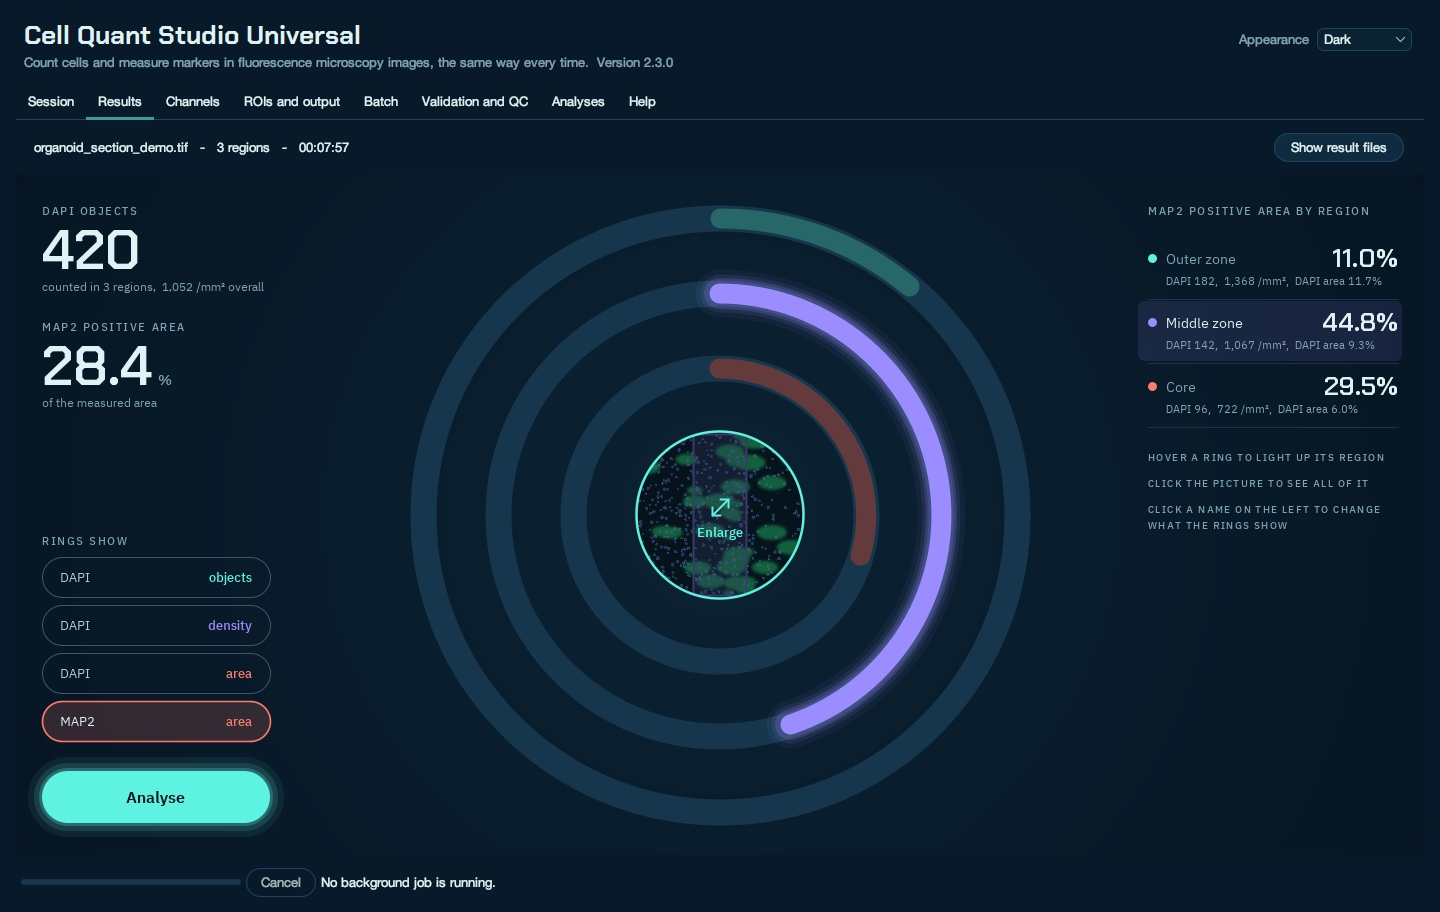
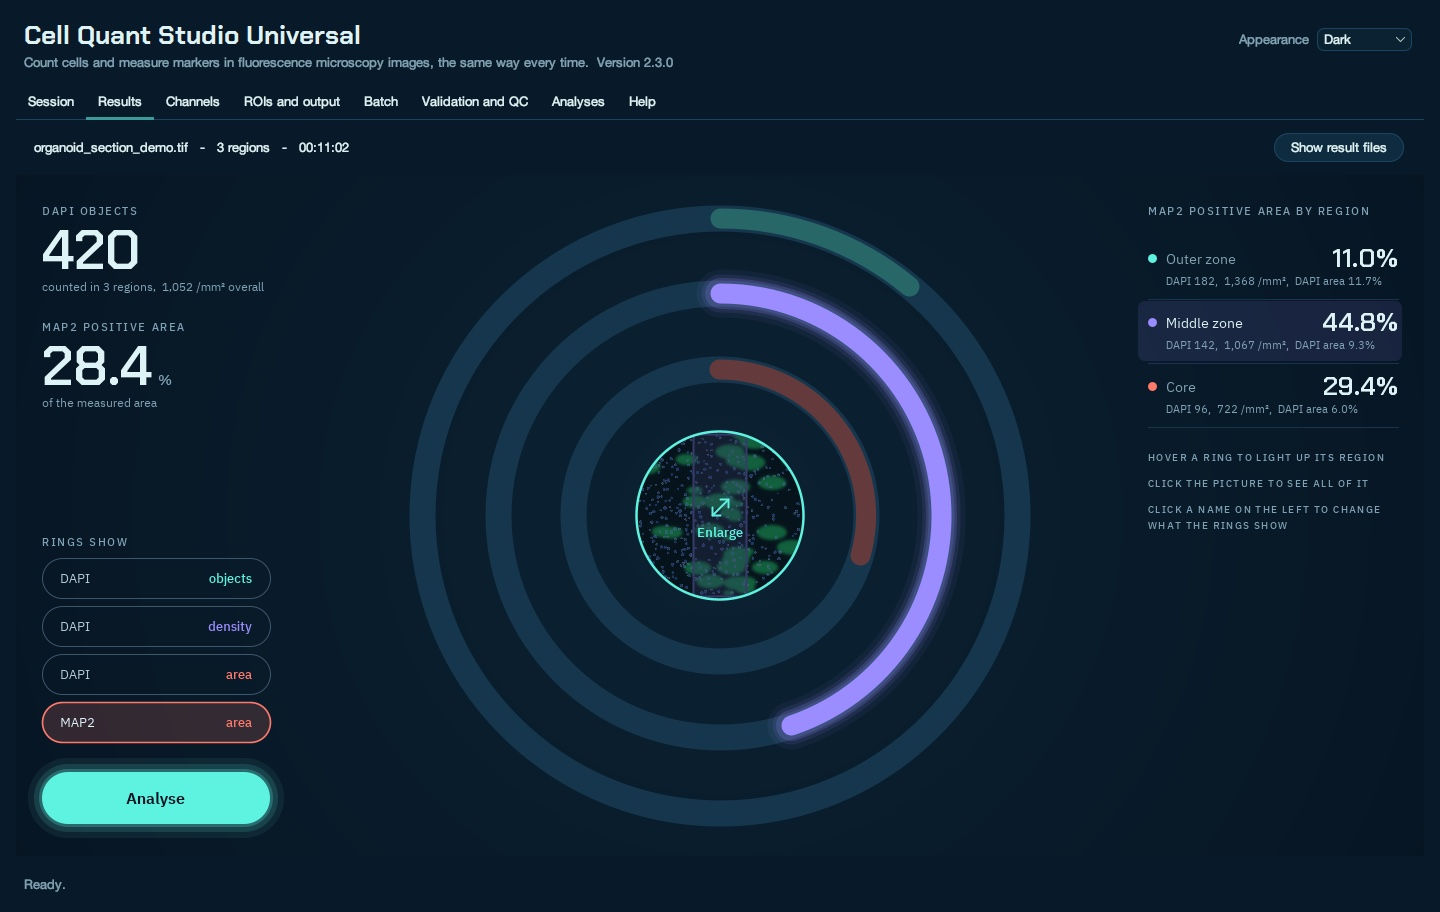
Quiet status strip: progress and Cancel only while a job runs
The strip under the tabs showed an empty progress bar and a disabled
Cancel button all the time. While nothing runs it is now one line of
text; the bar and the button appear when a job starts and go when it
ends. Their states and texts are set as before.

Tested on macOS: tests/gui_smoke.py 30 steps pass.

diff --git a/cellquantcore.py b/cellquantcore.py
@@ -51,6 +51,7 @@ from java.awt.geom import RoundRectangle2D, Arc2D
 from java.awt.image import BufferedImage
 from ij.process import ImageStatistics, FloatProcessor, ColorProcessor, Blitter
 from java.util import HashMap
+from java.beans import PropertyChangeListener
 from java.awt.dnd import DropTarget, DnDConstants, DropTargetAdapter
 from java.awt.datatransfer import DataFlavor
 from java.io import File
@@ -1818,6 +1819,21 @@ class ResultsAnimation(ActionListener):
         self.canvas.repaint()
 
 
+class JobBarWatcher(PropertyChangeListener):
+    """Shows the progress bar and the Cancel button while a job can be
+    cancelled, and hides them when it has ended."""
+
+    def __init__(self, window):
+        self.window = window
+
+    def propertyChange(self, event):
+        running = bool(self.window.job_cancel_button.isEnabled())
+        self.window.job_progress.setVisible(running)
+        self.window.job_cancel_button.setVisible(running)
+        self.window.job_side.revalidate()
+        self.window.job_side.repaint()
+
+
 class LookWindowListener(WindowAdapter):
     """Puts Fiji's own look back when the window has closed."""
 
@@ -2189,19 +2205,29 @@ class CellQuantStudioUniversal(JFrame):
         """The strip under the tabs that shows a background job (an analysis,
         a validation, a sensitivity, tuning, tissue, count correction or
         robustness run) and lets the user cancel it."""
-        bar = JPanel(FlowLayout(FlowLayout.LEFT))
-        self.job_label = JLabel("No background job is running.")
+        # While nothing runs, the strip is one quiet line of text. The
+        # progress bar and the Cancel button appear only while a job runs
+        # (JobBarWatcher follows the button, which every job enables).
+        bar = JPanel(BorderLayout(12, 0))
+        bar.setBorder(BorderFactory.createEmptyBorder(2, 8, 0, 4))
+        bar.setPreferredSize(Dimension(200, 38))
+        self.job_label = JLabel("Ready.")
+        self.job_label.putClientProperty("FlatLaf.style", "foreground: $Label.disabledForeground")
         self.job_progress = JProgressBar(0, 100)
-        # A thin bar; what it stands for is written beside it (job_label).
         # The string is still set, for scripts and tests that read the state.
         self.job_progress.setStringPainted(False)
         self.job_progress.setString("Idle")
-        self.job_progress.setPreferredSize(Dimension(220, 6))
+        self.job_progress.setPreferredSize(Dimension(260, 8))
         self.job_cancel_button = JButton("Cancel", actionPerformed=self.cancel_background_action)
         self.job_cancel_button.setEnabled(False)
-        bar.add(self.job_progress)
-        bar.add(self.job_cancel_button)
-        bar.add(self.job_label)
+        self.job_side = JPanel(FlowLayout(FlowLayout.RIGHT, 10, 4))
+        self.job_side.add(self.job_progress)
+        self.job_side.add(self.job_cancel_button)
+        self.job_progress.setVisible(False)
+        self.job_cancel_button.setVisible(False)
+        self.job_cancel_button.addPropertyChangeListener("enabled", JobBarWatcher(self))
+        bar.add(self.job_label, BorderLayout.CENTER)
+        bar.add(self.job_side, BorderLayout.EAST)
         return bar
 
     def add_grid_row(self, panel, row, label_text, component, button=None):
